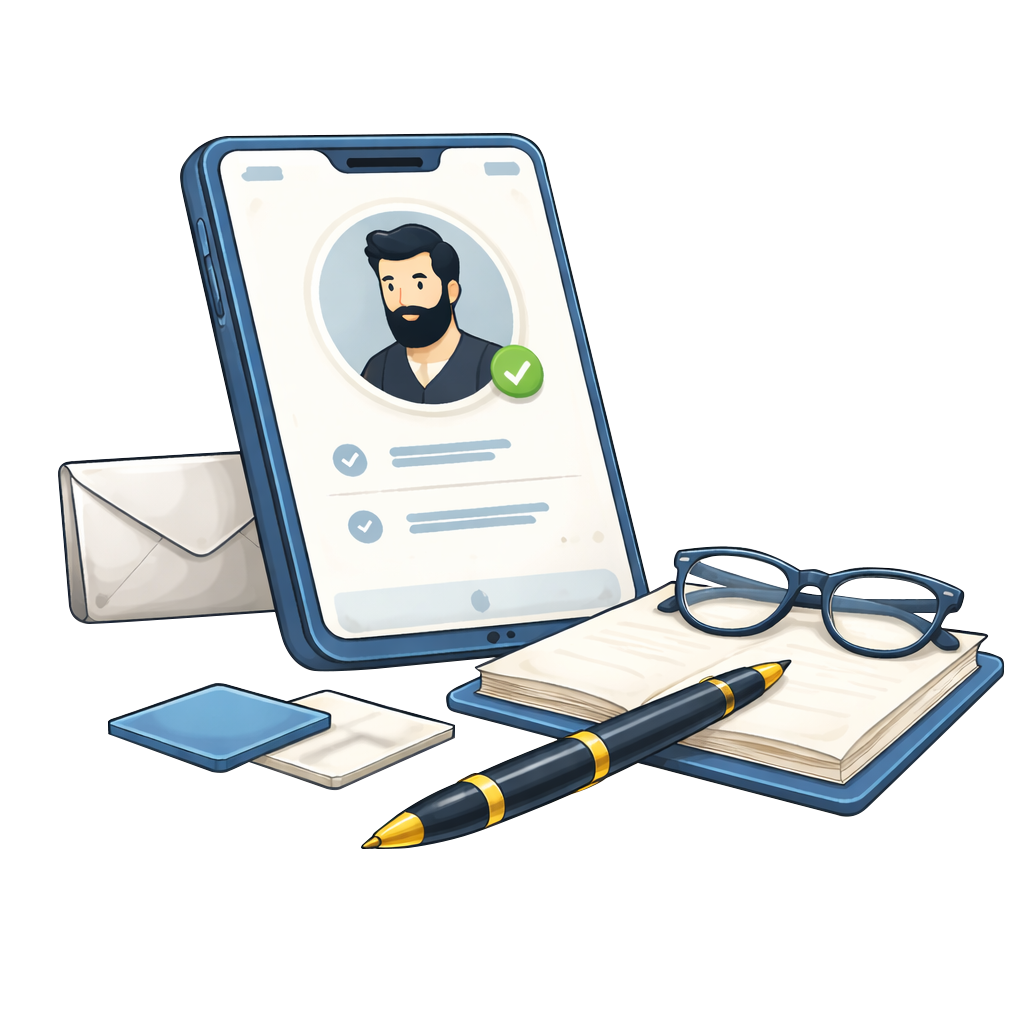
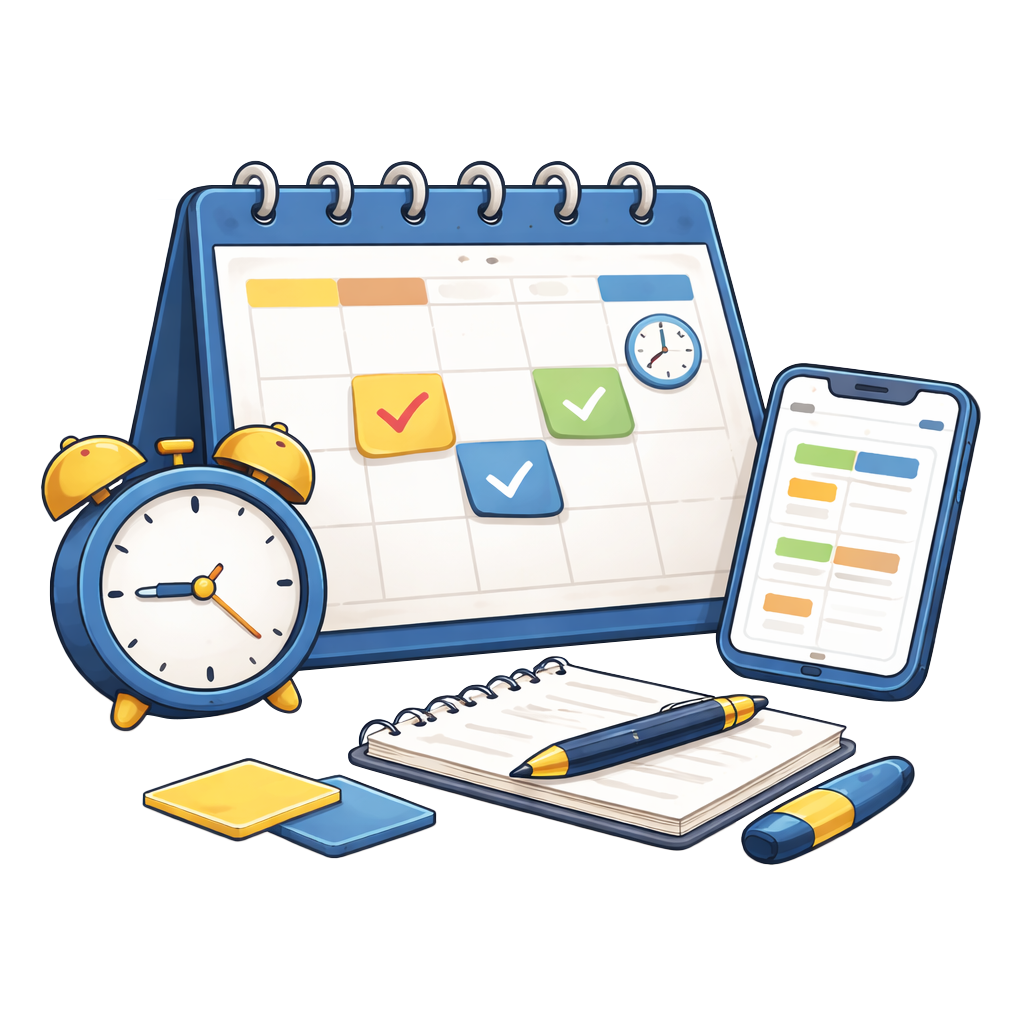
refactor(ui): redesign fullscreen menu with improved iOS compatibility
Menu Architecture:
- Simplified MenuItem with View-wrapper inside Pressable for iOS padding fix
- Modular menu components (MenuHeader, MenuItem, MenuSection)
- Removed complex flex calculations in favor of simple flex: 1 pattern

Menu Header:
- Redesigned to match PageHeader layout (centered title, X icon right)
- Same sizing and spacing as PageHeader (paddingVertical: 12, paddingHorizontal: 16)
- X icon replaces hamburger icon for close action

Menu Items:
- Icons with green background (44px circle)
- Title + subtitle with numberOfLines={1} to prevent text wrapping
- Chevron right indicator
- Proper spacing: 20px horizontal, 14px vertical padding

Menu Sections:
- Section titles (MAIN MENU, ADMINISTRATION, HR & PERSONAL, SETTINGS)
- 24px spacing between sections
- Logout moved to bottom as menu item instead of header button

Animations:
- handleClose() function ensures slide-out animation runs before Modal closes
- Smooth 250ms slide animation to right on close
- Works with both X-click and swipe gestures

iOS Fixes:
- View-wrapper pattern fixes padding not applying on Pressable in iOS
- Removed top padding (insets.top + 8 -> insets.top)
- Text wrapping issue resolved with proper flex layout

diff --git a/src/components/ui/menu/MenuHeader.tsx b/src/components/ui/menu/MenuHeader.tsx
@@ -1,30 +1,41 @@
 import React from 'react';
 import { View, Pressable, StyleSheet } from 'react-native';
+import { X } from 'lucide-react-native';
 import { Text } from '../Text';
 import { useTheme } from '@/contexts/ThemeContext';
 
 interface MenuHeaderProps {
   title: string;
-  onLogout?: () => void;
-  logoutText: string;
+  onClose?: () => void;
 }
 
-export function MenuHeader({ title, onLogout, logoutText }: MenuHeaderProps) {
+export function MenuHeader({ title, onClose }: MenuHeaderProps) {
   const { isDark } = useTheme();
   const textColor = isDark ? '#FAFAFA' : '#171717';
-  const borderColor = isDark ? '#2A2A2A' : '#E5E5E5';
 
   return (
-    <View style={[styles.header, { borderBottomColor: borderColor }]}>
-      <Text variant="h2" style={{ color: textColor, flex: 1 }}>
-        {title}
-      </Text>
-      <Pressable 
-        style={styles.logoutButton}
-        onPress={onLogout}
-      >
-        <Text style={styles.logoutText}>{logoutText}</Text>
-      </Pressable>
+    <View style={[styles.header, { backgroundColor: isDark ? '#0F0F0F' : '#FFFFFF' }]}>
+      {/* Left - Placeholder */}
+      <View style={styles.leftSection}>
+        <View style={styles.placeholder} />
+      </View>
+
+      {/* Center - Title */}
+      <View style={styles.centerSection}>
+        <Text variant="h3" style={[styles.title, { color: textColor }]}>
+          {title}
+        </Text>
+      </View>
+
+      {/* Right - Menu icon */}
+      <View style={styles.rightSection}>
+        <Pressable 
+          style={styles.menuButton}
+          onPress={onClose}
+        >
+          <X size={20} color={textColor} />
+        </Pressable>
+      </View>
     </View>
   );
 }
@@ -33,23 +44,35 @@ const styles = StyleSheet.create({
   header: {
     flexDirection: 'row',
     alignItems: 'center',
-    paddingHorizontal: 20,
-    paddingVertical: 16,
-    borderBottomWidth: 1,
+    justifyContent: 'space-between',
+    paddingVertical: 12,
+    paddingHorizontal: 16,
   },
-  logoutButton: {
-    paddingHorizontal: 12,
-    paddingVertical: 6,
-    borderRadius: 16,
-    borderWidth: 1,
-    borderColor: '#EF4444',
-    justifyContent: 'center',
+  leftSection: {
+    width: 48,
+    alignItems: 'flex-start',
+  },
+  centerSection: {
+    flex: 1,
     alignItems: 'center',
-    flexShrink: 0,
   },
-  logoutText: {
-    color: '#EF4444',
+  rightSection: {
+    width: 48,
+    alignItems: 'flex-end',
+  },
+  menuButton: {
+    width: 40,
+    height: 40,
+    borderRadius: 20,
+    alignItems: 'center',
+    justifyContent: 'center',
+  },
+  placeholder: {
+    width: 40,
+    height: 40,
+  },
+  title: {
     fontWeight: '600',
-    fontSize: 15,
+    textAlign: 'center',
   },
 });

diff --git a/src/components/ui/FullscreenMenu.tsx b/src/components/ui/FullscreenMenu.tsx
@@ -18,6 +18,7 @@ import {
   User,
   Building2,
   Settings,
+  LogOut,
 } from 'lucide-react-native';
 import { MenuHeader, MenuSection } from './menu';
 import type { MenuItemData } from './menu';
@@ -61,9 +62,15 @@ const getMenuSections = (t: (key: string) => string, canManageOnboarding: boolea
     ],
   },
   {
-    title: '',
+    title: t('menu.settings'),
     items: [
       { key: 'settings', icon: Settings, title: t('menu.settings'), subtitle: t('menu.settingsSubtitle') },
+    ],
+  },
+  {
+    title: '',
+    items: [
+      { key: 'logout', icon: LogOut, title: t('menu.logout'), subtitle: '' },
     ],
   },
 ];
@@ -143,9 +150,26 @@ export function FullscreenMenu({
     }
   }, [visible, slideAnim, dragX]);
 
+  const handleClose = () => {
+    // Kör slide-out animation först
+    Animated.timing(slideAnim, {
+      toValue: SCREEN_WIDTH,
+      duration: 250,
+      useNativeDriver: true,
+    }).start(() => {
+      // Stäng Modal efter animation är klar
+      onClose();
+    });
+  };
+
   const handleItemPress = (key: string) => {
-    onNavigate?.(key);
-    onClose();
+    if (key === 'logout') {
+      onLogout?.();
+      handleClose();
+    } else {
+      onNavigate?.(key);
+      handleClose();
+    }
   };
 
   const backgroundColor = isDark ? '#0F0F0F' : '#FFFFFF';
@@ -158,14 +182,14 @@ export function FullscreenMenu({
       onRequestClose={onClose}
     >
       <View style={styles.overlay}>
-        <Pressable style={styles.backdrop} onPress={onClose} />
+        <Pressable style={styles.backdrop} onPress={handleClose} />
         <Animated.View 
           {...panResponder.panHandlers}
           style={[
             styles.menuContainer,
             { 
               backgroundColor,
-              paddingTop: insets.top + 8,
+              paddingTop: insets.top,
               paddingBottom: Math.max(insets.bottom, 20),
               paddingLeft: insets.left,
               paddingRight: insets.right,
@@ -175,12 +199,12 @@ export function FullscreenMenu({
         >
           <MenuHeader
             title={t('menu.title')}
-            logoutText={t('menu.logout')}
-            onLogout={onLogout}
+            onClose={handleClose}
           />
 
           <ScrollView 
             style={styles.scrollView}
+            contentContainerStyle={styles.scrollContent}
             showsVerticalScrollIndicator={false}
           >
             {menuSections.map((section, index) => (
@@ -215,6 +239,9 @@ const styles = StyleSheet.create({
   },
   scrollView: {
     flex: 1,
+  },
+  scrollContent: {
+    flexGrow: 1,
   },
 });
 

diff --git a/src/components/ui/menu/MenuItem.tsx b/src/components/ui/menu/MenuItem.tsx
@@ -4,6 +4,8 @@ import { ChevronRight } from 'lucide-react-native';
 import { Text } from '../Text';
 import { useTheme } from '@/contexts/ThemeContext';
 
+const ICON_SIZE = 44;
+
 interface MenuItemProps {
   icon: React.ComponentType<{ size: number; color: string }>;
   title: string;
@@ -21,51 +23,63 @@ export function MenuItem({ icon: Icon, title, subtitle, onPress }: MenuItemProps
   return (
     <Pressable
       style={({ pressed }) => [
-        styles.menuItem,
         pressed && { backgroundColor: isDark ? '#1A1A1A' : '#F5F5F5' },
       ]}
       onPress={onPress}
     >
-      <View style={[styles.iconContainer, { backgroundColor: iconBgColor }]}>
-        <Icon size={20} color={iconColor} />
-      </View>
-      <View style={styles.textContainer}>
-        <Text variant="body-lg" style={{ color: textColor }} numberOfLines={1}>
-          {title}
-        </Text>
-        {subtitle && (
-          <Text variant="body-sm" style={{ color: mutedColor }} numberOfLines={1}>
-            {subtitle}
+      <View style={styles.container}>
+        <View style={[styles.icon, { backgroundColor: iconBgColor }]}>
+          <Icon size={20} color={iconColor} />
+        </View>
+        
+        <View style={styles.textArea}>
+          <Text 
+            variant="body-lg"
+            style={{ color: textColor }}
+            numberOfLines={1}
+          >
+            {title}
           </Text>
-        )}
+          {subtitle && (
+            <Text 
+              variant="body-sm"
+              style={{ color: mutedColor, marginTop: 2 }}
+              numberOfLines={1}
+            >
+              {subtitle}
+            </Text>
+          )}
+        </View>
+        
+        <ChevronRight size={20} color={mutedColor} style={styles.chevron} />
       </View>
-      <ChevronRight size={20} color={mutedColor} style={styles.chevron} />
     </Pressable>
   );
 }
 
 const styles = StyleSheet.create({
-  menuItem: {
+  container: {
     flexDirection: 'row',
     alignItems: 'center',
     paddingHorizontal: 20,
     paddingVertical: 14,
     minHeight: 64,
   },
-  iconContainer: {
-    width: 44,
-    height: 44,
-    borderRadius: 22,
+  icon: {
+    width: ICON_SIZE,
+    height: ICON_SIZE,
+    borderRadius: ICON_SIZE / 2,
     alignItems: 'center',
     justifyContent: 'center',
+    marginRight: 12,
     flexShrink: 0,
   },
-  textContainer: {
+  textArea: {
     flex: 1,
-    marginLeft: 12,
-    marginRight: 8,
+    justifyContent: 'center',
   },
   chevron: {
     flexShrink: 0,
+    marginLeft: 8,
   },
 });

diff --git a/src/components/ui/menu/MenuSection.tsx b/src/components/ui/menu/MenuSection.tsx
@@ -46,7 +46,8 @@ export function MenuSection({ title, items, onItemPress }: MenuSectionProps) {
 
 const styles = StyleSheet.create({
   section: {
-    paddingTop: 16,
+    width: '100%',
+    marginTop: 24,
   },
   sectionTitle: {
     paddingHorizontal: 20,
